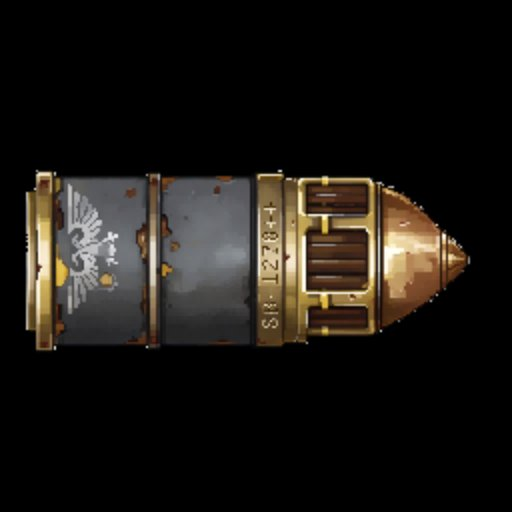
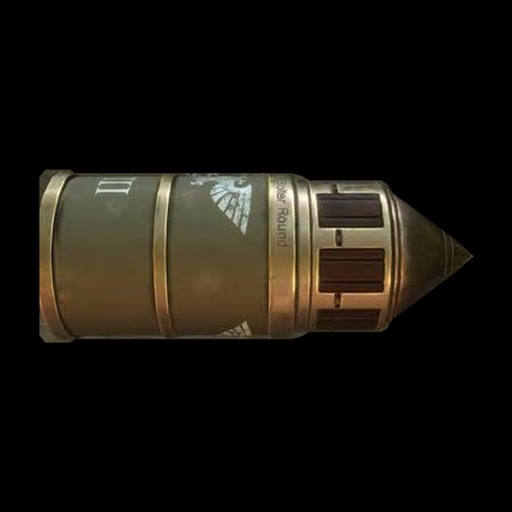
Boltgun 1.3.9: new .75 Bolt round art and Workshop preview
Claude-Session: https://claude.ai/code/session_01PqPi8UEDnERcNBcjVgrc36

Changed region(s): [[0.0312, 0.3125, 0.9375, 0.6875]]

diff --git a/src/Plugin.cs b/src/Plugin.cs
@@ -11,7 +11,7 @@ namespace Boltgun
     public class Plugin : BasePlugin
     {
         public const string Guid = "girthy_mods.zedzone.boltgun";
-        public const string Version = "1.3.8";
+        public const string Version = "1.3.9";
 
         public override void Load()
         {

diff --git a/CHANGELOG.md b/CHANGELOG.md
@@ -1,5 +1,8 @@
 # Changelog
 
+## 1.3.9
+- New .75 Bolt round art (inventory sprite and preview) and a new Workshop preview image.
+
 ## 1.3.8
 - Works with Mod Menu (F11): change this mod's settings in game. No gameplay change.
 - Same version number as on Girthy Mods.
